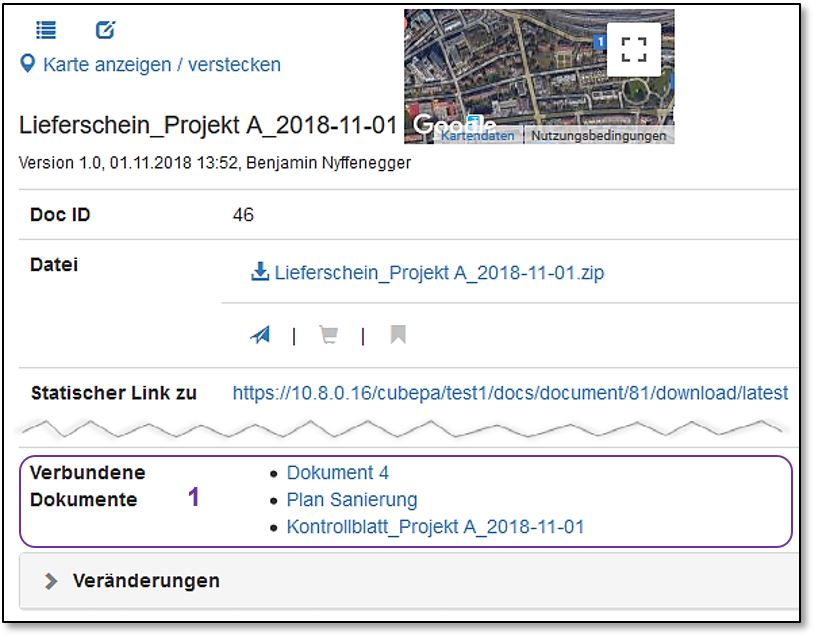
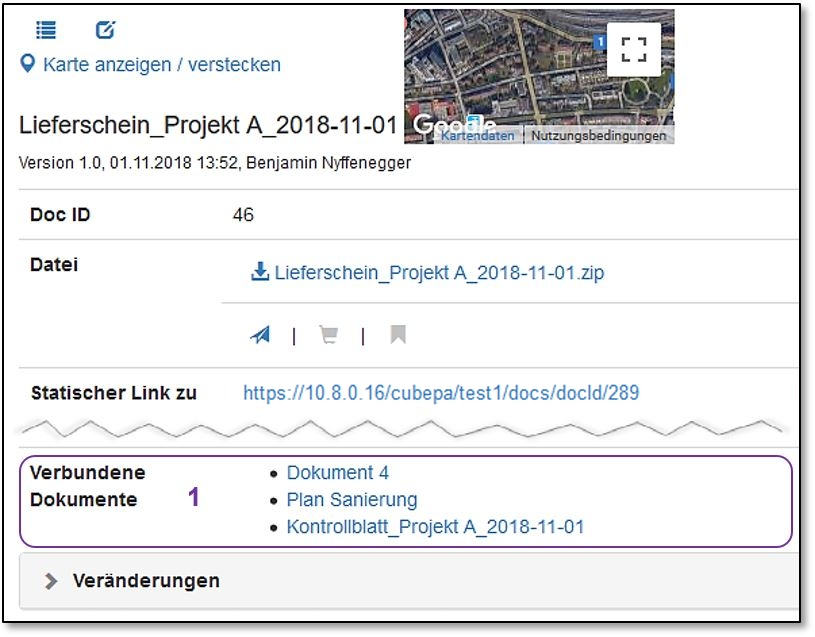
[german]
Dokumentenablage, anpassungen DocID - Link

Changed region(s): [[0.2761, 0.5965, 0.9816, 0.6562]]

diff --git a/german/chapters/11_Dokumentenablage/11_Dokumentenablage.tex b/german/chapters/11_Dokumentenablage/11_Dokumentenablage.tex
@@ -581,8 +581,8 @@ Wiederholen Sie obigen Schritt, um weitere Google-Maps-Verknüpfungen hinzuzufü
 % \label{fig:speciation}
 \end{figure}
 
-\vspace{\baselineskip}
-\pagebreak
+% \vspace{\baselineskip}
+% \pagebreak
 
 \textbf{Handhabung mit Google-Maps im CUBE PA}:
 
@@ -685,7 +685,7 @@ Unter 'Datei' können Sie mittels \includegraphics[height=12pt]{/Icons/download.
 
 Klicken Sie auf das \includegraphics[height=12pt]{/Icons/DokuFlag_grau.jpg} \col{(6)}, um das Dokument in Ihrer persönlichen Übersicht anzeigen zu lassen. Ist das Dokument markiert, wird Ihnen dies mit einem roten Symbol angezeigt: \includegraphics[height=12pt]{/Icons/DokuFlag_rot.jpg}. Mit Klick auf das rote Flag-Symbol wird das Dokument von Ihrer Übersicht wieder entfernt. \newline
 
-Unter 'Statischer Link zu aktuellster Datei-Version' \col{(7)} wird auf die aktuellste Version des Dokuments referenziert. Sie können diesen Link z.B. per Mail versenden und dadurch gewährleisten, dass der Empfänger in jedem Fall auf die aktuellste Version des Dokuments verwiesen wird. Um ein Dokument zu bearbeiten, wird es ausgecheckt \col{(8)}. Mehr zu diesem Thema finden Sie in Kapitel \ref{bkm:Ref442780171} (Dokumente online bearbeiten / Aus- und Einchecken der Dokumente).
+Unter 'Statischer Link zu aktuellster Datei-Version' \col{(7)} wird auf den aktuellste Dokumenteneintrag des Dokuments referenziert. Sie können diesen Link z.B. per Mail versenden und dadurch gewährleisten, dass der Empfänger in jedem Fall auf den aktuellste Dokumenteneintrag des Dokuments und somit auf die letzte Dokumentenversion verwiesen wird. Um ein Dokument zu bearbeiten, wird es ausgecheckt \col{(8)}. Mehr zu diesem Thema finden Sie in Kapitel \ref{bkm:Ref442780171} (Dokumente online bearbeiten / Aus- und Einchecken der Dokumente).
 
 \vspace{\baselineskip}
 

diff --git a/german/CUBEPA_Handbuch.tex b/german/CUBEPA_Handbuch.tex
@@ -75,7 +75,7 @@
 \HRule \\[1.5cm]
 
 \textsf{\Large Benutzerhandbuch}\\[0.5cm] % Major heading such as course name
-\textsf{\large Version 2.12 / 17.05.2019}\\[0.5cm] % Minor heading such as course title
+\textsf{\large Version 2.12 / 20.05.2019}\\[0.5cm] % Minor heading such as course title
 
 \pagebreak
 \vspace*{15cm}
@@ -90,13 +90,13 @@
 \begin{tabular}{lp{12cm}}
 Auftragsnummer & BE.N.\\
 Auftraggeber & .\\
-Datum & 17.05.2019\\
+Datum & 20.05.2019\\
 Version & 2.12\\
 Autoren & Dieter Schopfer, Benjamin Nyffenegger, Rayane Zahreddine, Adrian Johner, Markus Schafroth, Simon Heimberg\\
 Freigabe & Markus Schafroth\\
 Verteilen & .\\
 Datei & .\\
-Seitenzahl & 275 (inkl. QuickRef / Kurzanleitungen)\\
+Seitenzahl & 274 (inkl. QuickRef / Kurzanleitungen)\\
 Copyright & \copyright{ Emch+Berger AG Bern}\\
 \end{tabular}
 
